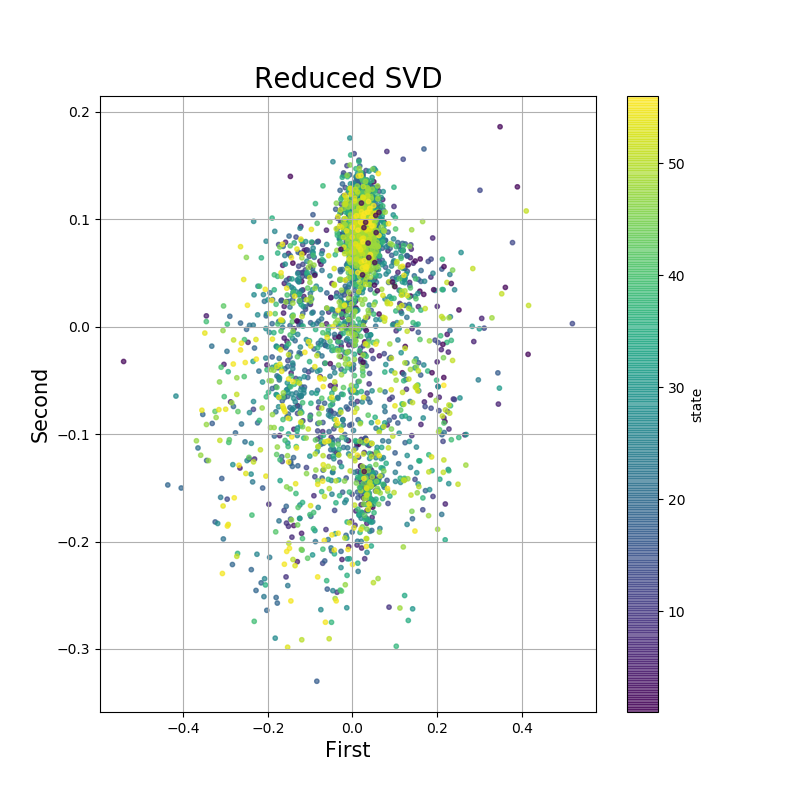
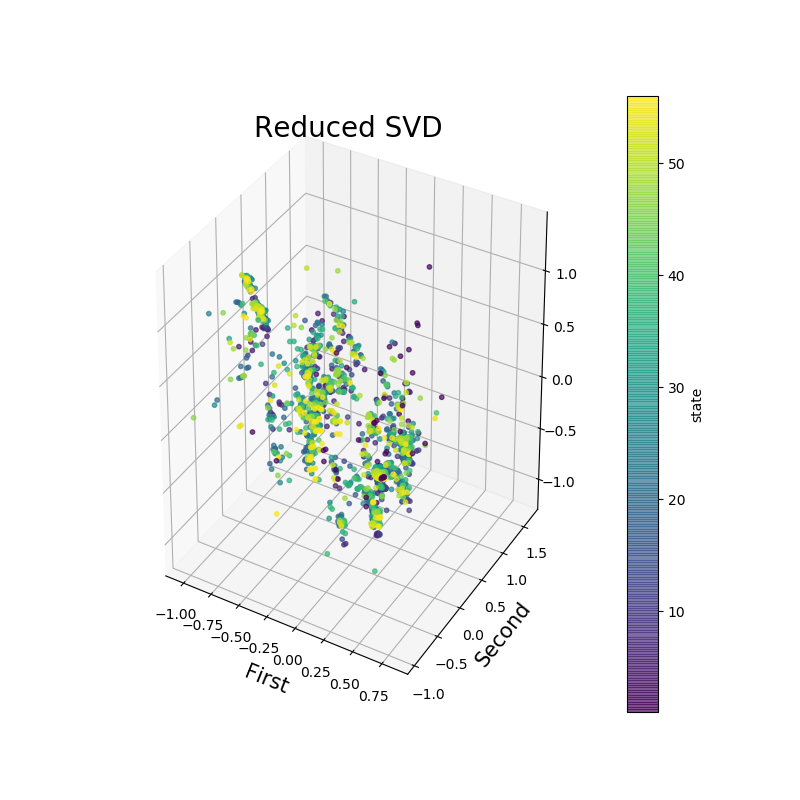
update

diff --git a/prototype.py b/prototype.py
@@ -2,6 +2,7 @@ import json
 from pathlib import Path
 import numpy as np
 import matplotlib.pyplot as plt
+from mpl_toolkits.mplot3d import Axes3D
 import pandas as pd
 from sklearn.decomposition import PCA
 from sklearn.manifold import TSNE
@@ -59,10 +60,10 @@ def trainSVD(X, colorlabels, plot=True, savefig=True):
 		plt.show()
 
 
-def trainSVD2(training_data, colorlabels, plot=True, savefig=True): #colorlabels, sizelabels, plot=True, savefig=True
+def trainSVD_surprise(training_data, colorlabels, plot=True, savefig=True): #colorlabels, sizelabels, plot=True, savefig=True
 	# algo = SVD(n_factors=4, n_epochs=1000, biased=True)
 	# algo = SVD(n_factors=20, n_epochs=500, biased=False)
-	algo = SVDpp(n_factors=100, n_epochs=1000)
+	algo = SVDpp(n_factors=10, n_epochs=1000)
 	algo.fit(training_data)
 	U = algo.pu 
 	if plot:
@@ -71,7 +72,7 @@ def trainSVD2(training_data, colorlabels, plot=True, savefig=True): #colorlabels
 		ax.set_xlabel('First', fontsize=15)
 		ax.set_ylabel('Second', fontsize=15)
 		ax.set_title('Reduced SVD', fontsize=20)
-		scatter = ax.scatter(U[:,0], U[:,1], c=colorlabels, s=10, alpha=0.7) #explore labeling colors with features like demographics, age
+		scatter = ax.scatter(U[:,0], U[:,1], U[:,2], c=colorlabels, s=10, alpha=0.7) #explore labeling colors with features like demographics, age
 		ax.grid()
 		cbar = fig.colorbar(scatter, ax=ax)
 		cbar.set_label("state")
@@ -79,11 +80,11 @@ def trainSVD2(training_data, colorlabels, plot=True, savefig=True): #colorlabels
 			plt.savefig("figures/svd_counties")
 		plt.show()
 
-	U = U.transpose()
-	A = np.linalg.svd(U)[0]
-	U_proj = np.dot(A[:, :2].transpose(), U)
-	# Rescale dimensions
-	U_proj /= U_proj.std(axis=1).reshape(2, 1)
+	# U = U.transpose()
+	# A = np.linalg.svd(U)[0]
+	# U_proj = np.dot(A[:, :2].transpose(), U)
+	# # Rescale dimensions
+	# U_proj /= U_proj.std(axis=1).reshape(2, 1)
 
 	# if plot:
 	# 	fig = plt.figure(figsize = (8,8))
@@ -99,6 +100,27 @@ def trainSVD2(training_data, colorlabels, plot=True, savefig=True): #colorlabels
 	# 		plt.savefig("figures/svd_counties")
 	# 	plt.show()
 
+def trainSVD_surprise3D(training_data, colorlabels, plot=True, savefig=True): #colorlabels, sizelabels, plot=True, savefig=True
+	# algo = SVD(n_factors=4, n_epochs=1000, biased=True)
+	# algo = SVD(n_factors=20, n_epochs=500, biased=False)
+	algo = SVDpp(n_factors=10, n_epochs=1000)
+	algo.fit(training_data)
+	U = algo.pu 
+	if plot:
+		fig = plt.figure(figsize = (8,8))
+		# ax = fig.add_subplot(1,1,1) 
+		ax = fig.add_subplot(111, projection='3d')
+		ax.set_xlabel('First', fontsize=15)
+		ax.set_ylabel('Second', fontsize=15)
+		ax.set_title('Reduced SVD', fontsize=20)
+		scatter = ax.scatter(U[:,0], U[:,1], U[:,2], c=colorlabels, s=10, alpha=0.7) #explore labeling colors with features like demographics, age
+		ax.grid()
+		cbar = fig.colorbar(scatter, ax=ax)
+		cbar.set_label("state")
+		if savefig:
+			plt.savefig("figures/svd_counties")
+		plt.show()
+
 def visualize(filename):
 	df = load_data(filename)
 	reader = Reader(rating_scale=(0, 1))
@@ -112,7 +134,8 @@ def visualize(filename):
 			modified = '0'+modified
 		counties[index] = modified
 	states_labels = [int(fips[0:2]) for fips in counties]
-	trainSVD2(ts, states_labels)
+	trainSVD_surprise(ts, states_labels)
+	trainSVD_surprise3D(ts, states_labels)
 
 	df = df.pivot_table('votes', 'FIPS', 'candidate')
 	df.dropna(inplace=True)
@@ -122,119 +145,5 @@ def visualize(filename):
 if __name__ == '__main__':
 	filename = 'data/countypres_2000-2016.csv'
 	visualize(filename)
-
-# from surprise import Dataset
-# from surprise import accuracy
-# from surprise import SVD, evaluate
-# from surprise import NMF
-# from surprise import KNNBasic
-# from surprise import Reader
-# import numpy as np
-# import pandas as pd
-# import matplotlib.pyplot as plt
-
-# movie_features = ["Movie Id", "Movie Title", "Unknown", "Action", "Adventure", "Animation", "Childrens", "Comedy", "Crime",
-# 		 "Documentary", "Drama", "Fantasy", "Film-Noir", "Horror", "Musical", "Mystery", "Romance", "Sci-Fi", 
-# 		 "Thriller", "War", "Western"]
-# movies = pd.read_csv('../data/movies.txt', delimiter='\t', header=None, encoding='latin1', names=movie_features)
-
-# def load_data(filename = '../data/data.txt'):
-# 	rating_features = ["User Id","Movie Id","Rating"]
-# 	ratings = pd.read_csv('../data/data.txt', delimiter='\t', header=None, encoding='latin1', names=rating_features)
-# 	df = pd.DataFrame(ratings)
-# 	reader = Reader(rating_scale=(0.5, 5.0))
-# 	data = Dataset.load_from_df(df[['User Id', 'Movie Id', 'Rating']], reader)
-# 	ts = data.build_full_trainset()
-# 	return ts
-
-# def trainSVD(make_plot=True):
-# 	ts = load_data()
-# 	algo = SVD(n_factors=25, n_epochs=300, biased=False)
-# 	# algo = NMF(n_factors=2, n_epochs=100)
-# 	# algo = KNNBasic()
-
-# 	algo.fit(ts)
-# 	pred = algo.test(ts.build_testset())
-# 	accuracy.rmse(pred)
-# 	algo.qi.shape
-# 	V = algo.qi
-# 	V = V.transpose()
-# 	# Project to 2 dimensions
-# 	A = np.linalg.svd(V)[0]
-# 	V_proj = np.dot(A[:, :2].transpose(), V)
-# 	# Rescale dimensions
-# 	V_proj /= V_proj.std(axis=1).reshape(2, 1)
-# 	if(make_plot):
-# 		plot(V, ts)
-
-# 	return V_proj
-
-# def plot(V, ts):
-# 	scores = np.array(list(map(lambda x: np.average([v for _,v in x]), ts.ir.values())))
-# 	num_scores = np.array(list(map(lambda x: len(x), ts.ir.values())))
-# 	years = np.array(movies['Movie Title'].str.extract('\((\d*)\)').values)
-# 	titles = np.array(movies['Movie Title'].values)
-
-
-# 	outlier_idx = [int(ts.to_raw_iid(i))-1 for i in np.where(np.linalg.norm(V, axis=1) > 1000)[0]]
-# 	popular_idx = [int(ts.to_raw_iid(i))-1 for i in np.where(num_scores > 350)[0]]
-# 	interesting_movies = movies[['Movie Id', 'Movie Title']].values[np.unique(outlier_idx + popular_idx)]
-
-# 	# print(interesting_movies)
-
-# 	plt.figure(figsize=(8,8))
-# 	plt.scatter(*V.T, c=scores, s=num_scores, cmap=plt.get_cmap('RdYlGn'), alpha=0.6)
-# 	plt.colorbar().set_label("Average ratings")
-# 	plt.title("Unbiased SVD Surprise!")
-
-# 	texts = []
-# 	for movie_id, name in interesting_movies:
-# 		print(movie_id)
-# 		iid = movie_id
-# 		texts.append(plt.annotate(name, xy=V[iid], horizontalalignment='center', textcoords='offset points', 
-# 								  xytext=(0, 0), arrowprops=dict(arrowstyle='-', lw=1, alpha=0.5)))
-
-# 	plt.show()
-
-
-# if __name__ == '__main__':
-# 	trainSVD()
-
-
-
-# # Load the movielens-100k dataset (download it if needed).
-# data = Dataset.load_builtin('ml-100k')
-
-# # Use the famous SVD algorithm.
-# algo = SVD()
-
-# # Run 5-fold cross-validation and print results.
-# cross_validate(algo, data, measures=['RMSE', 'MAE'], cv=5, verbose=True)
-
-# ########################################################################
-
-
-# # Use movielens-100K
-# data = Dataset.load_builtin('ml-100k')
-
-# param_grid = {'n_epochs': [5, 10], 'lr_all': [0.002, 0.005],
-#               'reg_all': [0.4, 0.6]}
-# gs = GridSearchCV(SVD, param_grid, measures=['rmse', 'mae'], cv=3)
-
-# gs.fit(data)
-
-# # best RMSE score
-# print(gs.best_score['rmse'])
-
-# # combination of parameters that gave the best RMSE score
-# print(gs.best_params['rmse'])
-
-# # We can now use the algorithm that yields the best rmse:
-# algo = gs.best_estimator['rmse']
-# algo.fit(data.build_full_trainset())
-
-# import pandas as pd  # noqa
-# results_df = pd.DataFrame.from_dict(gs.cv_results)
-
 
 
